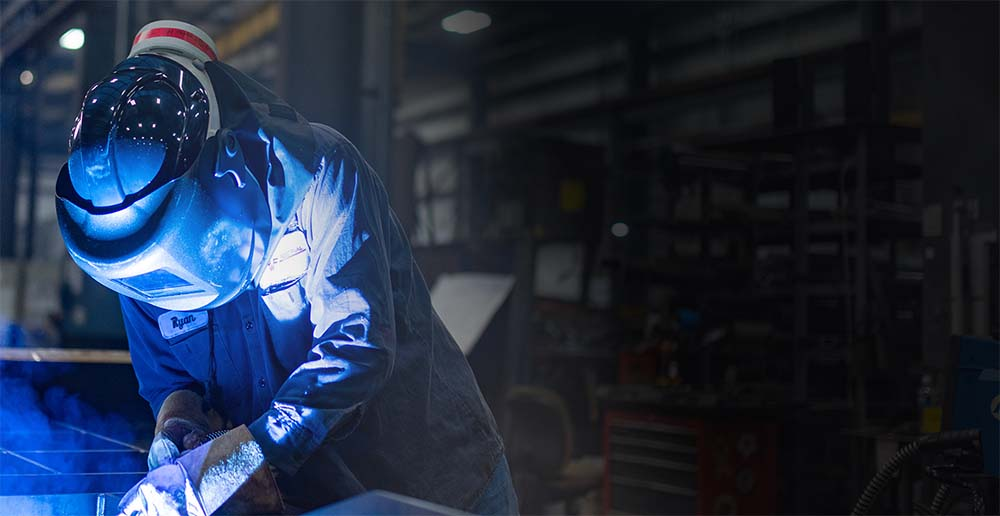
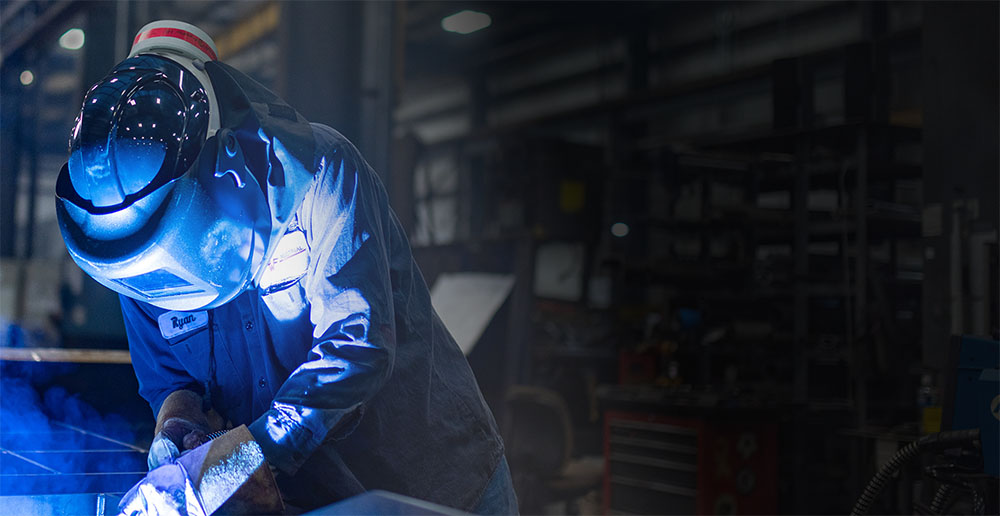
new images, updated CSS for about and trial pages

diff --git a/wp-content/themes/pureflo/assets/css/about.css b/wp-content/themes/pureflo/assets/css/about.css
@@ -3,41 +3,43 @@
 .hero { background-image: url('../img/hero/hero-about.jpg'); background-position:left top; background-repeat: no-repeat; background-size: cover; background-attachment: fixed;}
 .hero::after  { content: ""; position: absolute; inset: 0; pointer-events: none; background: linear-gradient(0deg,rgba(0, 0, 0, 1) 2%, rgba(0, 0, 0, 0.1) 35%);}
 
+@media (min-width: 768px) {.hero { height: 75vh;} }
 @media (max-width: 1200px) {.hero {background-image: url('../img/hero/hero-about-md.jpg'); background-position:right top;}}
 @media (max-width: 768px) {.hero {background-position:center;}}
 
-.why-pf {--hd-color:#ffffff; color:#ffffff; position:relative; border-radius: 1rem; background: linear-gradient(121deg,rgba(0, 28, 51, 1) 20%, rgba(0, 14, 26, 1) 49%, rgba(0, 75, 135, 1) 81%); }
 
-.why-pf:before {content: '';  opacity: 0.1; position: absolute; inset: 0; pointer-events: none;
-    background: url('../img/global/wave-light-sm.webp') no-repeat; background-size: cover; background-position: bottom right;}
+/* == PRINCIPLES == */
 
-.why-pf h4 {font-size:2rem; margin-left:1rem;}
-.why-pf .border-right {border-right: 5px solid var(--ada-blue);}
+.pf-principles { display: grid; grid-template-columns: repeat(3, 1fr); background:var(--almost-white); border-radius: 12px; padding: 2rem 1.5rem; }
+.pf-principle { display: flex; align-items: center; gap: 1.25rem; padding: 1rem 2rem; }
+.pf-principle + .pf-principle { border-left: 1px solid rgba(0, 0, 0, 0.12); }
+.pf-principle-icon { flex: 0 0 52px; width: 52px; height: 52px;
+	display: flex; align-items: center; justify-content: center;
+	color: var(--pf-blue); font-size: 2.5rem; }
 
-.why-pf .btn.btn-outline { color: var(--ada-blue);  border-color: var(--ada-blue);}
-.why-pf .btn.btn-outline:hover { color: #ffffff;  border-color: #ffffff;}
-.why-pf a {color:var(--gtex-oj);}
+.pf-principle h3 { margin: 0 0 .35rem; color: var(--pf-blue); font-size: .85rem; font-weight: 700; letter-spacing: .12em; text-transform: uppercase; }
+.pf-principle p { margin: 0; font-size: .95rem; line-height: 1.5; }
 
-
-/* === ABOUT === */
-#about  h2 { font-size: 2.5rem; margin-bottom: 1.5rem; line-height: 1.2; }
-@media (max-width: 768px) { #about  h2 { font-size: 2rem; }}
-
-@media (max-width: 992px) { #about .content { padding-right: 0; margin-bottom: 3rem; }}
-
-#about .stats-container { margin: 3rem 0; padding: 2rem 0; border-top: 1px solid color-mix(in srgb, var(--main-color), transparent 85%); border-bottom: 1px solid color-mix(in srgb, var(--main-color), transparent 85%); }
-#about .stat-item { text-align: center; margin-bottom: 1.5rem; }
-#about .stat-item .number { font-size: 2.5rem; font-weight: 700; color: var(--pureflo-blue); margin-bottom: 0.5rem; }
-#about .stat-item .label { font-size: 0.9rem; color: color-mix(in srgb, var(--main-color), transparent 30%); text-transform: uppercase; letter-spacing: 0.5px; }
-
-@media (max-width: 768px) { 
-  #about .stat-item { margin-bottom: 2rem; }
-  #about .stat-item .number { font-size: 2rem; }
+@media (max-width: 991.98px) { 
+	.pf-principles { grid-template-columns: 1fr; 	padding: 1rem; }
+	.pf-principle { padding: 1.25rem; }
+	.pf-principle + .pf-principle { border-left: 0; 	border-top: 1px solid rgba(0, 0, 0, 0.12); } 
 }
-#about .cta-wrapper { display: flex; gap: 1rem; align-items: center; }
 
-@media (max-width: 576px) { #about .cta-wrapper { flex-direction: column; align-items: stretch; }}
 
-#about .image-wrapper { position: relative; padding-left: 20px; }
-@media (max-width: 992px) { #about .image-wrapper { padding-left: 0; margin-top: 2rem; }}
-#about .main-image { border-radius: 20px; box-shadow: 0 20px 40px color-mix(in srgb, var(--main-color), transparent 85%); }
+/* == GENTEX PROOF POINTS == */
+
+.gtex-proof .row > .col-md-4:not(:last-child) { border-right: 1px solid rgba(0, 0, 0, 0.12);}
+.gtex-proof-item { height: 100%; padding: 0 35px; }
+
+.gtex-proof-icon { width: 64px; height: 64px; margin: 0 auto 18px; display: flex; align-items: center; justify-content: center; background: #ffffff; border-radius: 50%; color: var(--pf-blue); font-size: 1.75rem; box-shadow: 0 3px 10px rgba(0, 40, 80, 0.08); }
+.gtex-proof-item h3 { margin-bottom: 10px; color: var(--pf-blue); font-size: 0.9rem; font-weight: 700; line-height: 1.3; text-transform: uppercase; }
+.gtex-proof-item p { margin: 0 auto; font-size: 0.9rem; }
+
+@media (max-width: 991.98px) {.gtex-proof .row > .col-md-4:not(:last-child) { border-right: none;} }
+@media (max-width: 767.98px) {
+    .gtex-proof-item { padding: 30px 20px; }
+	.gtex-proof .row > .col-md-4:not(:last-child) { border-bottom:1px solid rgba(0, 0, 0, 0.12);}
+    .gtex-proof-icon { margin-bottom: 15px; } 
+}
+

diff --git a/wp-content/themes/pureflo/assets/css/trial.css b/wp-content/themes/pureflo/assets/css/trial.css
@@ -1,0 +1,13 @@
+/* == TRIAL PAGE ONLY == */
+
+.hero.trial { background-image: url('../img/hero/hero-trial.jpg'); background-position:right bottom; background-repeat: no-repeat; background-size: cover; background-attachment: fixed;}
+@media (max-width: 1200px) {.hero {background-image: url('../img/hero/hero-trial-md.jpg');}}
+@media (max-width: 768px) {.hero {background-position:center;}}
+
+.pf-benefit {position: relative; height: 100%; min-height: 200px; padding: 1.5rem; background: var(--almost-white); border-radius: 10px; transition: transform .2s ease, box-shadow .2s ease;}
+.pf-benefit:hover {transform: translateY(-4px); box-shadow: 0 10px 30px rgba(0, 0, 0, .08);}
+.pf-benefit-icon {width: 58px; height: 58px; display: flex; align-items: center; justify-content: center; margin-bottom: 1.5rem; color: var(--pf-blue); font-size: 2.25rem;}
+.pf-benefit-number {position: absolute; top: 1.75rem; right: 1.75rem; color:rgba(0, 0, 0, .15); font-size: .75rem; font-weight: 700; letter-spacing: .1em;}
+.pf-benefit h3 {margin: 0; max-width: 260px; font-size: 1.25rem; font-weight: 600;}
+
+.terms {font-size:0.9rem;}

diff --git a/wp-content/themes/pureflo/assets/css/global.css b/wp-content/themes/pureflo/assets/css/global.css
@@ -14,6 +14,7 @@
   --pf-navy: #1B365D;    /* rgb(27, 54, 93) */
   --pf-blue: #004B88; /* rgb(0, 75, 136) */
   --ada-blue: #0076D6;
+  --hero-blue: #2bA7FC;
   --gtex-oj:#FF8200;
   --opscore-red: #E31B23; 
 }
@@ -293,8 +294,8 @@ body.modal-open .hero, body.modal-open footer
 
 .hero .container { position: relative; z-index: 1; padding: 3rem 1rem; }
 .hero-sub {text-transform: uppercase; letter-spacing:2px; font-weight: 400;}
-.hero .eyebrow {font-family: "new-science"; font-weight: 500; letter-spacing: 5px; font-size: 1.2rem;}
-.hero sup {font-weight: 300; font-size: 0.5em; top: -1em;}
+.hero .eyebrow {font-family: "new-science"; letter-spacing: 5px; font-size: 1.2rem; color:var(--hero-blue);}
+.hero sup {font-weight: 300; top: -0.5em;}
 
 @media (min-width: 768px) {.hero {height:80vh;}  .hero.sm {height:60vh;} }
 @media (max-width: 767.9px) { .hero {height:auto; }}
